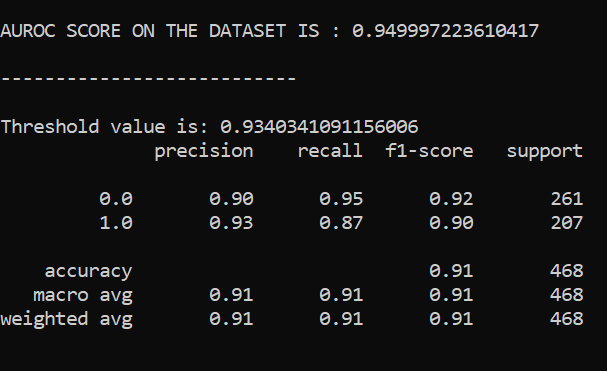
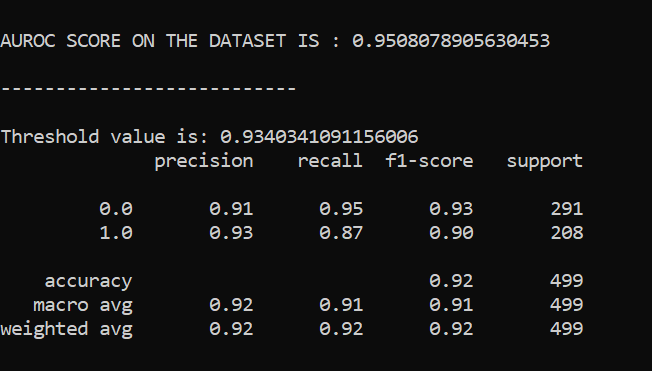
bug fix: basket-undetected videos accounted for

diff --git a/src/evaluate.py b/src/evaluate.py
@@ -39,9 +39,15 @@ def get_directories():
     return data_dir_list, frames_dir_list, final_dir_list
 
 
-def dataset_cleanup(final_dir_list):
-    for final_dir in final_dir_list:
-        clear_empty_subdirectories(final_dir)
+def dataset_cleanup():
+
+    final_scoring_dir = os.path.join(cfg.FINAL_DATASET_DIR, '1')
+    final_nonscoring_dir = os.path.join(cfg.FINAL_DATASET_DIR, '0')
+
+    num_scoring_undetected = clear_empty_subdirectories(final_scoring_dir)
+    num_nonscoring_undetected = clear_empty_subdirectories(final_nonscoring_dir)
+
+    return num_scoring_undetected, num_nonscoring_undetected
 
 
 def prepare_eval_dataset():
@@ -67,15 +73,17 @@ def prepare_eval_dataset():
             final_frames_dir = os.path.join(final_dir_list[idx], video)
             save_cropped_images(video_frames_dir, final_frames_dir, standardise = True)
 
-    dataset_cleanup(final_dir_list)
+    num_scoring_undetected, num_nonscoring_undetected = dataset_cleanup()
 
-    return data_dir_list, frames_dir_list, final_dir_list
+    return (data_dir_list, frames_dir_list, final_dir_list), (num_scoring_undetected, num_nonscoring_undetected)
 
 
 def evaluate():
 
-    __, frames_dir_list, final_dir_list = prepare_eval_dataset()
+    directory_lists_tuple, num_undetected_tuple = prepare_eval_dataset()
+    __, frames_dir_list, final_dir_list = directory_lists_tuple
 
+    print()
     transform = transforms.Compose([
         transforms.Resize((cfg.RESIZE, cfg.RESIZE)),
         transforms.ToTensor(),
@@ -102,7 +110,8 @@ def evaluate():
         cfg.MAX_VIDEO_FRAMES,
         cfg.BATCH_SIZE,
         cfg.DEVICE,
-        cfg.THRESHOLD
+        cfg.THRESHOLD,
+        num_undetected_tuple # basket undetected counts
     )
 
     # clear temporary files stored

diff --git a/src/utils/eval_utils.py b/src/utils/eval_utils.py
@@ -61,7 +61,9 @@ def get_all_video_probabs(model, dataloader, device, max_video_frames):
     return all_scores, all_labels
 
 
-def print_classification_metrics(model, dataset_path, transform, max_video_frames, batch_size, device, threshold = None):
+def print_classification_metrics(
+    model, dataset_path, transform, max_video_frames, batch_size, device, threshold = None, num_undetected_tuple = None
+):
 
     # get dataset, dataloader
     dataset = video_folder(dataset_path, transform, max_video_frames)
@@ -69,6 +71,17 @@ def print_classification_metrics(model, dataset_path, transform, max_video_frame
 
     # criteria
     scores, labels = get_all_video_probabs(model, dataloader, device, max_video_frames)
+
+    # account for (basket) undetected videos (tjese wo;; )
+    if num_undetected_tuple is None:
+        # Note: this works only for the given Public Dataset
+        num_scoring_undetected, num_nonscoring_undetected = (1, 30)
+    else:
+        num_scoring_undetected, num_nonscoring_undetected = num_undetected_tuple
+
+    scores.extend([0 for __ in range(num_scoring_undetected + num_nonscoring_undetected)])
+    labels.extend([1 for __ in range(num_scoring_undetected)])
+    labels.extend([0 for __ in range(num_nonscoring_undetected)])
 
     # show ROC curve
     auroc_score = roc_auc_score(labels, scores)

diff --git a/src/utils/file_utils.py b/src/utils/file_utils.py
@@ -34,11 +34,14 @@ def copy_tree(source_folder, destination_folder):
 
 def clear_empty_subdirectories(folder_path):
 
+    num_cleared = 0
     subdir_paths = [os.path.join(folder_path, subdir) for subdir in listdir(folder_path)]
     for subdir_path in tqdm(subdir_paths, desc = f'Cleaning up {folder_path}'):
         if os.path.isdir(subdir_path):
             if len(listdir(subdir_path)) == 0:
                 os.rmdir(subdir_path)
+                num_cleared += 1
+    return num_cleared
 
 
 def create_dataset_structure(root_directory, val_required = False):
